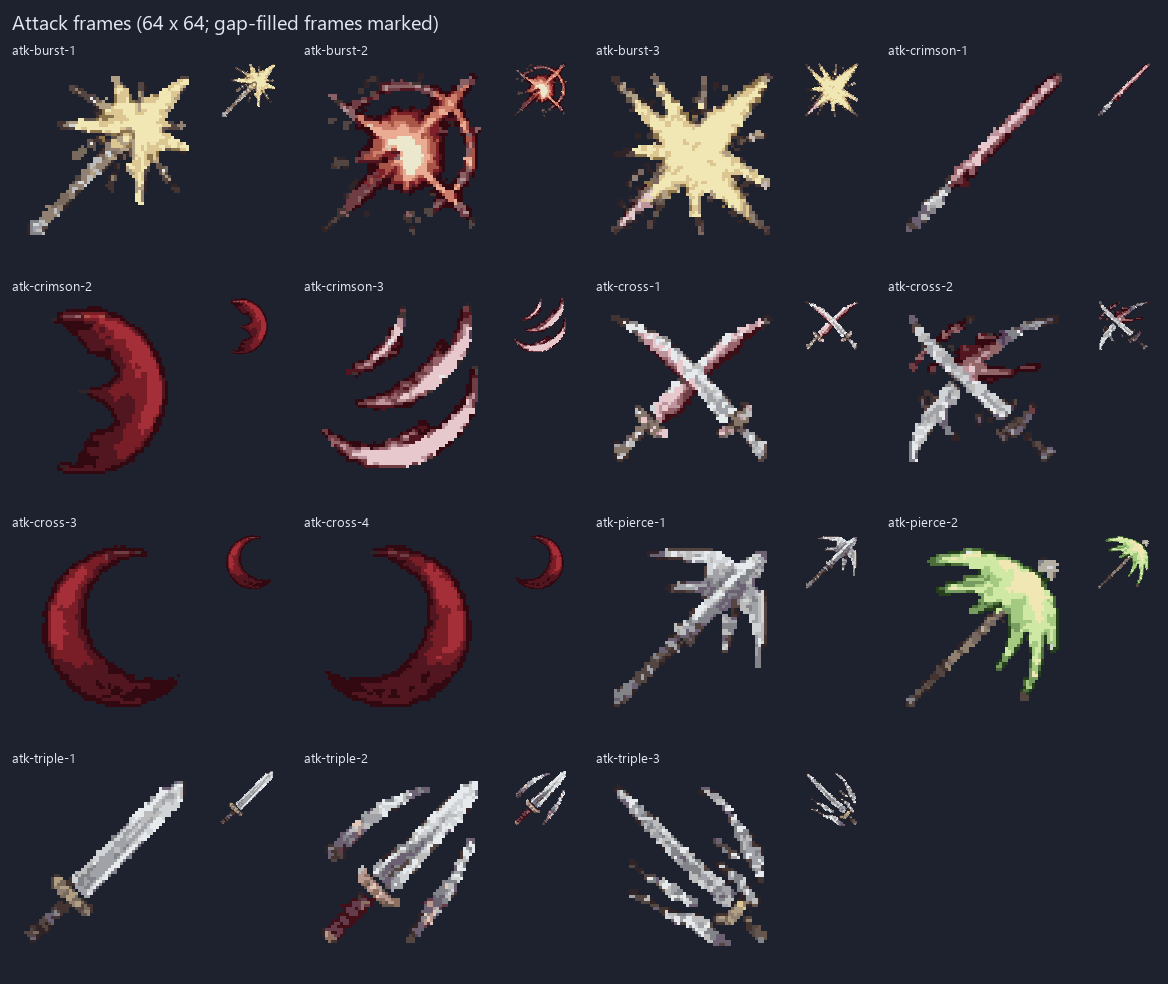
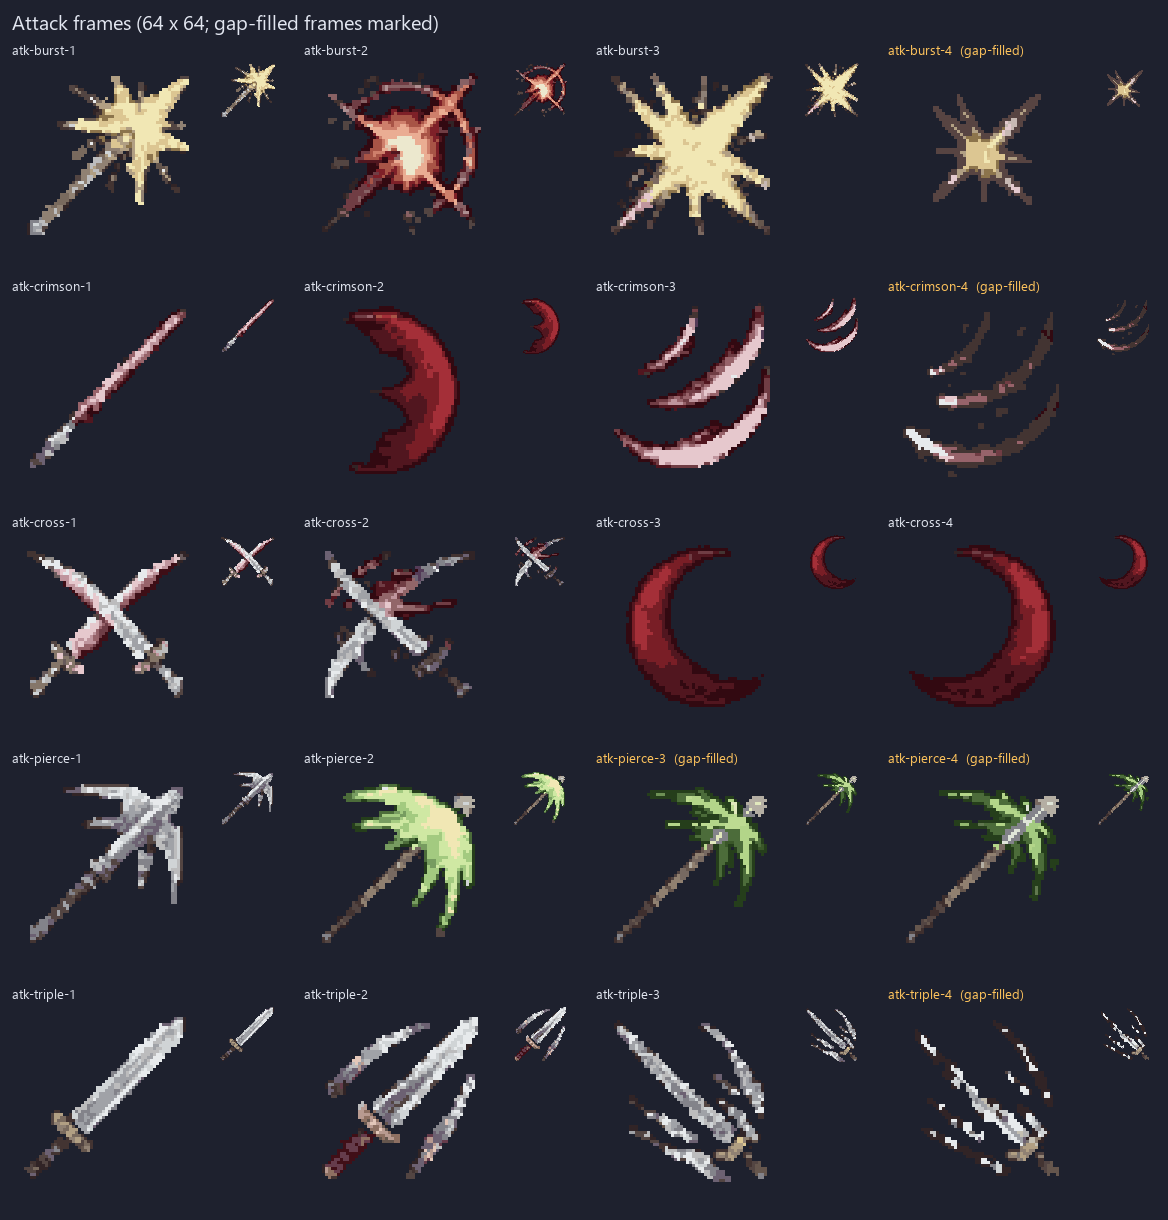
Art drafts: katana/staff gap-fills, attack strips with gap frames, GIF and APNG previews

diff --git a/design/pixel/concept-sheet-1-new/post.py b/design/pixel/concept-sheet-1-new/post.py
@@ -44,6 +44,11 @@ BOOK = dict(zip(RAR, [f"book-{i}" for i in range(1, 8)]))
 STAFF = dict(zip(RAR, ["gap:staff-common", "staff-A", "staff-B", "gap:staff-legendary", "gap:staff-mythic",
                        "gap:staff-exotic", "gap:staff-void"]))
 UNIQUES = {"twin_daggers": ("unique-daggers", "void"), "bronze_hammer": ("unique-hammer", "legendary")}
+# attack frames PixelLab's animate_image added after the last concept frame (pixellab/anim-*)
+ATTACK_GAPS = {"atk-crimson-4": "anim-crimson-4", "atk-triple-4": "anim-triple-4",
+               "atk-pierce-3": "anim-pierce-3", "atk-pierce-4": "anim-pierce-4", "atk-burst-4": "anim-burst-4"}
+ATTACK_STRIPS = {style: [f"atk-{style}-{i}" for i in range(1, 5)]
+                 for style in ("cross", "crimson", "triple", "pierce", "burst")}
 HOLLOW = {"frame-1", "frame-2", "frame-3", "frame-4", "panel-wide", "cos-frame-1", "cos-frame-2",
           "cos-frame-wide", "bar-progress"}
 
@@ -171,10 +176,16 @@ def main() -> None:
         if not atk:
             a = glow_ramp(a, MAGIC_FAMILY.get(name, "gold"))
         save(a, "attacks/frames" if name.startswith("atk") else "magic", name)
-    for f in sorted(PL.glob("gap-atk-*.png")):
-        a = gap(f.stem)
-        a = P.settle_orphans(P.quantize(a, 16))
-        save(a, "attacks/frames", f.stem[4:])
+    for frame, src in ATTACK_GAPS.items():
+        a = gap(src)
+        a[a[..., :3].max(-1) < 48] = 0
+        save(P.settle_orphans(P.quantize(P.drop_specks(a, 1), 16)), "attacks/frames", frame)
+    # the 4-frame strips (snap, held hit, thin, break), 64 x 64 per frame like cos-atk-*
+    for style, frames in ATTACK_STRIPS.items():
+        strip = Image.new("RGBA", (64 * 4, 64), (0, 0, 0, 0))
+        for i, f in enumerate(frames):
+            strip.alpha_composite(Image.open(OUT / "attacks/frames" / f"{f}.png"), (64 * i, 0))
+        strip.save(OUT / "attacks" / f"atk-{style}.png")
 
     # interface and cosmetic frames
     for name in lay["ui"]:

diff --git a/design/pixel/concept-sheet-1-new/previews.py b/design/pixel/concept-sheet-1-new/previews.py
@@ -1,0 +1,46 @@
+"""Animation previews for the attack drafts, at the game's timing for baked slashes (attackSheet in
+art/cosmetics.ts: snap 50 ms, held hit 130, thin 90, break 110).
+
+For each drafts/attacks/atk-<style>.png strip it runs the pixel-art skill's sheet.py (sheet + GIF at
+4x on the dark panel colour) and also writes an APNG that keeps the transparency.
+
+Usage: py design/pixel/concept-sheet-1-new/previews.py
+Writes design/pixel/concept-sheet-1-new/previews/<style>_sheet.png, _preview.gif, .apng.
+"""
+from __future__ import annotations
+
+import subprocess
+import sys
+import tempfile
+from pathlib import Path
+
+from PIL import Image
+
+HERE = Path(__file__).resolve().parent
+ROOT = HERE.parents[2]
+SHEET = ROOT / ".claude/skills/pixel-art/scripts/sheet.py"
+DUR = [50, 130, 90, 110]
+OUT = HERE / "previews"
+
+
+def main() -> None:
+    OUT.mkdir(exist_ok=True)
+    for strip in sorted((HERE / "drafts/attacks").glob("atk-*.png")):
+        style = strip.stem[4:]
+        im = Image.open(strip).convert("RGBA")
+        frames = [im.crop((64 * i, 0, 64 * i + 64, 64)) for i in range(4)]
+        with tempfile.TemporaryDirectory() as tmp:
+            for i, f in enumerate(frames):
+                f.save(Path(tmp) / f"frame_{i:02d}.png")
+            subprocess.run(
+                [sys.executable, str(SHEET), tmp, "--durations", ",".join(map(str, DUR)), "--scale", "4",
+                 "--bg", "#1e212e", "--out", str(OUT / style)],
+                check=True,
+            )
+        big = [f.resize((256, 256), Image.NEAREST) for f in frames]
+        big[0].save(OUT / f"{style}.apng", save_all=True, append_images=big[1:], duration=DUR, loop=0,
+                    disposal=1, format="PNG")
+
+
+if __name__ == "__main__":
+    main()

diff --git a/design/pixel/concept-sheet-1-new/contact.py b/design/pixel/concept-sheet-1-new/contact.py
@@ -86,7 +86,7 @@ def main() -> None:
               HERE / f"contact-{kind}.png", lambda n: n in GAP_NAMES)
     sheet("New uniques (100 x 120, evo treatment)", sorted((D / "uniques").glob("*.png")), 2, HERE / "contact-uniques.png")
     sheet("Attack frames (64 x 64; gap-filled frames marked)", sorted((D / "attacks/frames").glob("*.png")), 4,
-          HERE / "contact-attack-frames.png", lambda n: n.endswith("-gap") or "gap" in n)
+          HERE / "contact-attack-frames.png", lambda n: n in N.ATTACK_GAPS)
     for g, cols, title in (("trails", 10, "Elemental trail swatches (48 x 48)"), ("debuffs", 7, "Debuff icons (48 x 48)"),
                            ("magic", 9, "Magic circles and VFX patterns (64 x 64)"),
                            ("interface", 6, "Interface parts (own sizes)"), ("cosmetics", 6, "Cosmetics: portraits, flora, frames")):
